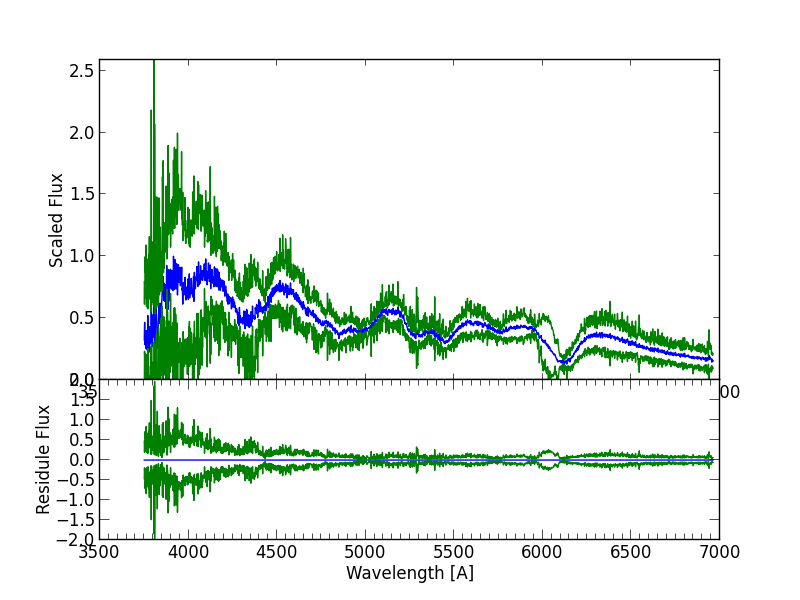
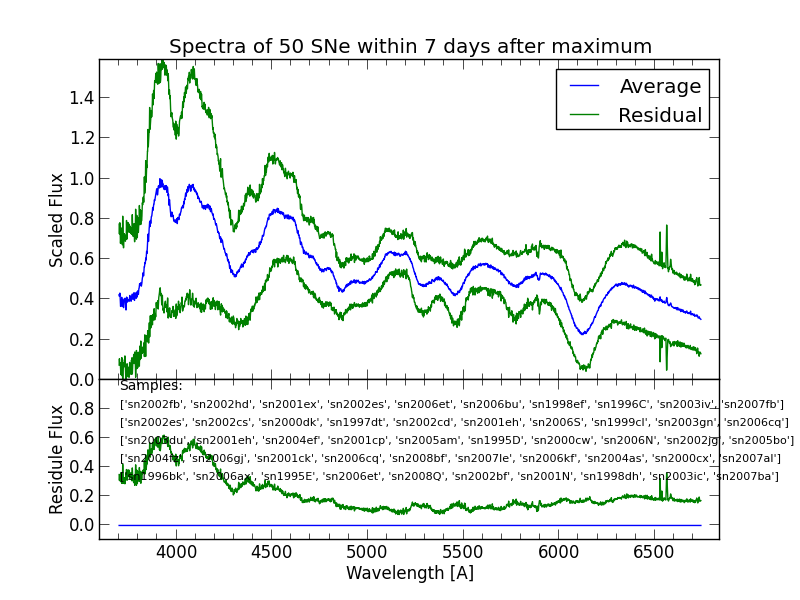
Choose 50 radom samples. --Y.Cao

diff --git a/personal/ycao/src/spectrum.py b/personal/ycao/src/spectrum.py
@@ -84,7 +84,7 @@ def interpSpec(wave,flux,bound):
 def averSpec(files,zhels):
     fluxs = []
     bound = findBoundary(files,zhels)
-#     bound = [3500,6000]
+#    bound = [3500,7000]
 
     for file,z in zip(files,zhels):
         wave,flux = loadSpec(file,z)
@@ -107,38 +107,49 @@ def averSpec(files,zhels):
 
     return intwave,averflux,fluxs,resflux
 
-def plotSpec(wave,averflux,fluxs,resflux):
 
-    pltdir = '../plots/'
+# Plot average spectrum and the residuals. 
+def plotAverSpec(wave,averflux,fluxs,resflux):
 
     ax1 = plt.subplot2grid((3,1), (0,0),rowspan=2)
     ax2 = plt.subplot2grid((3,1), (2,0))
 
     plt.subplots_adjust(hspace = .001)
 
-    minorLocator  = AutoMinorLocator(10)
+    minorLocator  = AutoMinorLocator(5)
+    ax1.xaxis.set_minor_locator(minorLocator)
+
+    minorLocator  = AutoMinorLocator(5)
     ax2.xaxis.set_minor_locator(minorLocator)
 
-    minorLocator  = AutoMinorLocator(10)
-    ax2.xaxis.set_minor_locator(minorLocator)
-
+    ax1.tick_params(which='major', length=7)
+    ax1.tick_params(which='minor', length=4)
     ax2.tick_params(which='major', length=7)
     ax2.tick_params(which='minor', length=4)
+
+
+    ax1.set_title('Spectra of 50 SNe within 7 days after maximum')
 
     ax1.set_ylabel('Scaled Flux')
     ax2.set_ylabel('Residule Flux')
 
     ax2.set_xlabel('Wavelength [A]')
 
+    ax1.set_xlim(wave[0]-100, wave[-1]+100)
     ax1.set_ylim(0., np.max(averflux+resflux))
 
-    ax1.plot(wave, averflux,color='b')
-    ax1.plot(wave, averflux + resflux,color = 'g')
+    ax2.set_xlim(wave[0]-100, wave[-1]+100)
+    ax2.set_ylim(-0.1)
+
+    ax1.plot(wave, averflux,color='b',label='Average')
+    ax1.plot(wave, averflux + resflux,color = 'g',label='Residual')
     ax1.plot(wave, averflux - resflux,color = 'g')
 
     ax2.plot(wave,np.zeros(len(wave)),color='b')
     ax2.plot(wave,resflux,color='g')
-    ax2.plot(wave,-1.*resflux,color='g')
+
+    ax1.legend()
+#     ax2.plot(wave,-1.*resflux,color='g')
 
 #     nspec = np.shape(fluxs)[0]
 #     index = range(0,nspec,1)
@@ -147,14 +158,17 @@ def plotSpec(wave,averflux,fluxs,resflux):
 #         ax1.plot(wave,fluxs[i,:])
 #         ax2.plot(wave,resflux[i,:])
 
-    plt.savefig(pltdir+'averspectra.png')
-    plt.show()
-
-
 
 #     print 'flux:', fluxs[1,0:3]
 #     print 'residule:',resflux[1,0:3]
 #     print 'average:',averflux[0:3]
+
+
+def spectrum(files,zhels):
+    wave,averflux,fluxs,resflux = averSpec(files,zhels)
+    plotAverSpec(wave,averflux,fluxs,resflux)
+    
+    return
 
 # datadir = '../../../data/'
 
@@ -166,10 +180,4 @@ def plotSpec(wave,averflux,fluxs,resflux):
 # files = [datadir+file1,datadir+file2]
 # zhels = [z1,z2]
 
-def spectrum(files,zhels):
-    wave,averflux,fluxs,resflux = averSpec(files,zhels)
-    plotSpec(wave,averflux,fluxs,resflux)
-    
-    return
-
-
+# spectrum(files,zhels)

diff --git a/personal/ycao/src/mtspectra.py b/personal/ycao/src/mtspectra.py
@@ -20,6 +20,7 @@ for dirs,subdirs,files in os.walk(datadir):
 #         snpaths.append(os.path.join(dirs,subdirs))
         snnames.append(subdirs)
 
+snnames = np.array(snnames)
 #Find the maximum spectra for each SNe
 #--Reading datadir/cfasnIa_param.dat, Colum1, 2, 3: Name, redshift, MJD at B-band maximum light
 #--Then converst UT time to MJD to match *.flm filename with tmax 
@@ -52,7 +53,11 @@ from astropy.time import Time
 
 #Select the first 25 as the samples 
 #sns = snnames[0:24]
-sns = snnames[0:10]
+
+nsample = 50
+
+rand = np.random.randint(0,len(snnames),len(snnames))
+sns = snnames[rand]
 
 # from string import Template
 import string
@@ -60,7 +65,15 @@ import string
 snsample = []
 files = []
 zsample = []
+count = 0
 for sn in sns:
+    if count == nsample:
+        break
+
+    try:
+        index = names.index(sn)
+    except ValueError:
+        continue
     index = names.index(sn)
     name = names[index]
     zhel = zhels[index]
@@ -91,7 +104,7 @@ for sn in sns:
 
     fn = np.nanargmin(mdays)
     
-    if days[fn] > 8:
+    if days[fn] > 7:
         continue
 
     file = list[fn]
@@ -99,14 +112,27 @@ for sn in sns:
     snsample.append(name)
     zsample.append(zhel)
     files.append(file)
+    
+    count += 1
 
 #    print daymax, dates[fn], days[fn]
 
-print snsample
-print zsample
-print files
+# print zsample
+# print files
 
 import spectrum 
 from spectrum import *
 
 spectrum(files,zsample)
+
+pltdir = '../plots/'
+
+range = range(nsample/10)
+
+plt.figtext(0.15,0.35,'Samples:',fontsize=10)
+
+for i in range:
+    plt.figtext(0.15,0.32-0.03*i,snsample[10*i:10*(i+1)],fontsize=8)
+
+plt.savefig(pltdir+'averspectra.png')
+plt.show()
